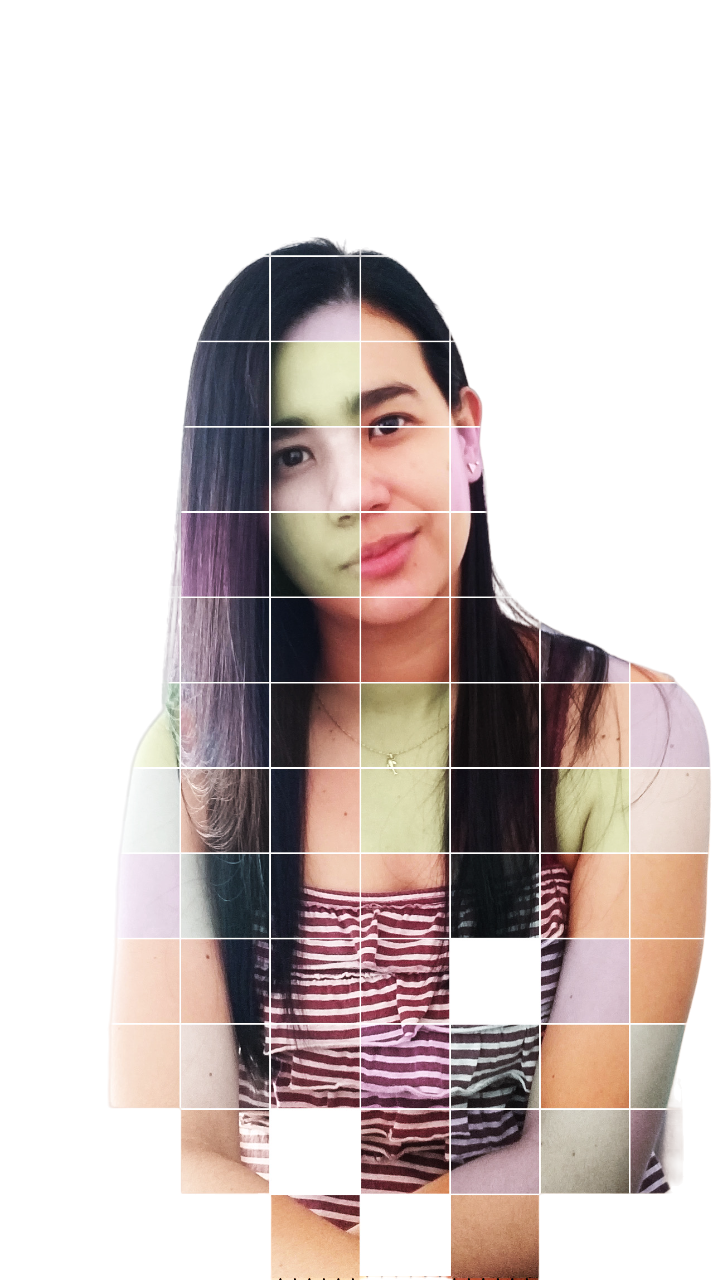
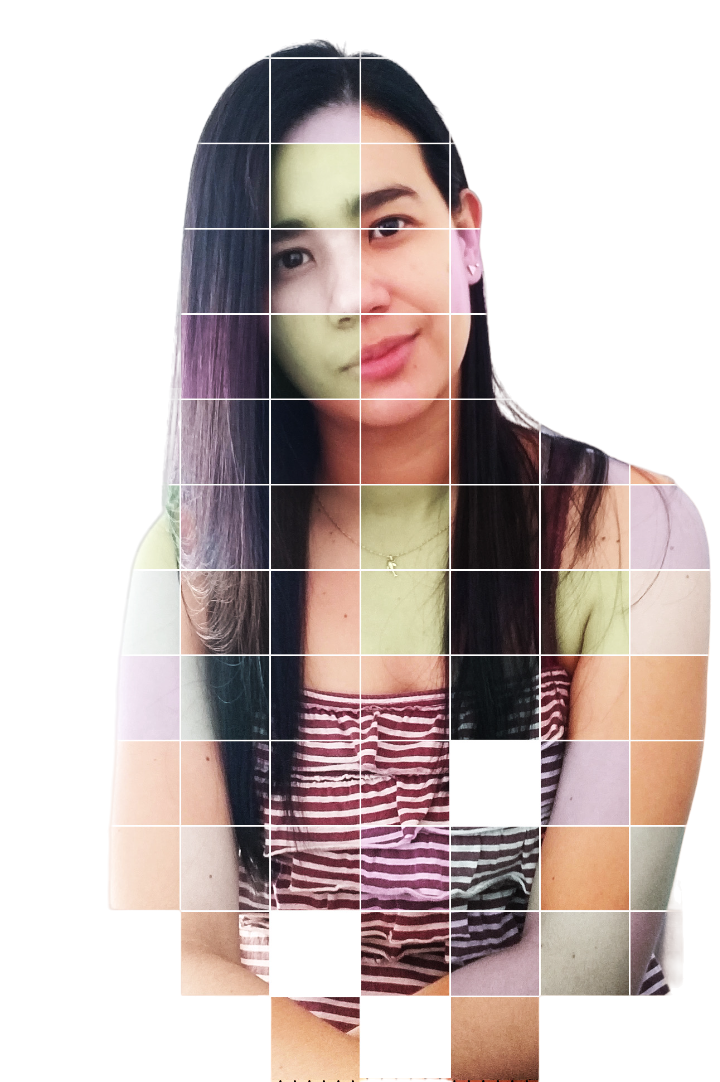
styles

diff --git a/pages/about.js b/pages/about.js
@@ -41,7 +41,8 @@ export default function About() {
         className="about__about-navbar">
         <Tab
           eventKey="education"
-          title="Education">
+          title="Education"
+          className="about__about-title">
           <div
             className="about__education"
             id="education-tab"
@@ -50,43 +51,55 @@ export default function About() {
               <li className="about__education-list">
                 <div className="about__education-content">
                   <span className="about__education-year">2023</span>
-                  <h3 className="about__education-title">
+                  <h4 className="about__education-title">
                     The Coding Interview Bootcamp: Algorithms + Data Structures
-                  </h3>
+                  </h4>
                   <span className="about__institute-name">Udemy</span>
                 </div>
+              </li>
+              <li className="about__education-list">
                 <div className="about__education-content">
                   <span className="about__education-year">2023</span>
-                  <h3 className="about__education-title">
+                  <h4 className="about__education-title">
                     Technical Test: Frontend Development with JavaScript
-                  </h3>
+                  </h4>
                   <span className="about__institute-name">Platzi</span>
                 </div>
+              </li>
+              <li className="about__education-list">
                 <div className="about__education-content">
                   <span className="about__education-year">2023</span>
-                  <h3 className="about__education-title">Modern React with Redux</h3>
+                  <h4 className="about__education-title">Modern React with Redux</h4>
                   <span className="about__institute-name">Udemy</span>
                 </div>
+              </li>
+              <li className="about__education-list">
                 <div className="about__education-content">
                   <span className="about__education-year">2022</span>
-                  <h3 className="about__education-title">
+                  <h4 className="about__education-title">
                     Bachelor&apos;s Degree in Industrial Engineering
-                  </h3>
+                  </h4>
                   <span className="about__institute-name">University of Antioquia</span>
                 </div>
+              </li>
+              <li className="about__education-list">
                 <div className="about__education-content">
                   <span className="about__education-year">2022</span>
-                  <h3 className="about__education-title">Practical JavaScript Course</h3>
+                  <h4 className="about__education-title">Practical JavaScript Course</h4>
                   <span className="about__institute-name">Platzi</span>
                 </div>
+              </li>
+              <li className="about__education-list">
                 <div className="about__education-content">
                   <span className="about__education-year">2022</span>
-                  <h3 className="about__education-title">The Modern Javascript Bootcamp Course</h3>
+                  <h4 className="about__education-title">The Modern Javascript Bootcamp Course</h4>
                   <span className="about__institute-name">Udemy</span>
                 </div>
+              </li>
+              <li className="about__education-list">
                 <div className="about__education-content">
                   <span className="about__education-year">2020</span>
-                  <h3 className="about__education-title">Diploma HSEQ</h3>
+                  <h4 className="about__education-title">Diploma HSEQ</h4>
                   <span className="about__institute-name">University of Antioquia</span>
                 </div>
               </li>
@@ -104,7 +117,7 @@ export default function About() {
               <li className="about__experience-list">
                 <div className="about__experience-content">
                   <span className="about__experience-year">2023</span>
-                  <h3 className="about__experience-title">Web UI Developer</h3>
+                  <h4 className="about__experience-title">Web UI Developer</h4>
                   <span className="about__experience-institute-name">@App Tiempo</span>
                   <p>
                     Contributed to the development and maintenance of responsive web applications
@@ -119,7 +132,7 @@ export default function About() {
               <li className="about__experience-list">
                 <div className="about__experience-content">
                   <span className="about__experience-year">2015 - 2022</span>
-                  <h3 className="about__experience-title">Administrative roles</h3>
+                  <h4 className="about__experience-title">Administrative roles</h4>
                   <span className="about__experience-institute-name">@App Tiempo</span>
                   <p>
                     Supported the implementation of the QualityManagement System (QMS) according to
@@ -145,7 +158,7 @@ export default function About() {
               <li className="about__projects-list">
                 <div className="about__projects-content">
                   <span className="about__projects-year">2023</span>
-                  <h3 className="about__projects-title">@App Tiempo</h3>
+                  <h4 className="about__projects-title">@App Tiempo</h4>
                   <Image
                     src="/images/appTiempo.jpg"
                     className="about__appTiempo-image"
@@ -155,9 +168,11 @@ export default function About() {
                   />
                   <p className="about__appTiempo-description">Description @AppTiempo.</p>
                 </div>
+              </li>
+              <li className="about__projects-list">
                 <div className="about__projects-content">
                   <span className="about__projects-year">2023</span>
-                  <h3 className="about__projects-title">Memorym game</h3>
+                  <h4 className="about__projects-title">Memorym game</h4>
                   <Image
                     src="/images/memorym.jpg"
                     className="about__appTiempo-image"

diff --git a/components/Hero.js b/components/Hero.js
@@ -27,8 +27,8 @@ export default function Hero() {
           <Image
             className="hero__image"
             src="/images/me.png"
-            width={300}
-            height={500}
+            width={400}
+            height={600}
             alt="Me"
           />
         </div>

diff --git a/pages/blog/index.js b/pages/blog/index.js
@@ -14,8 +14,8 @@ export default function BlogIndex() {
       <div className="index__blog-image">
         <Image
           src={javascriptIcon}
-          width={150}
-          height={150}
+          width={450}
+          height={450}
           alt="js icon"
         />
       </div>

diff --git a/pages/about.css b/pages/about.css
@@ -1,3 +1,12 @@
 .about__content {
-    color:aquamarine;
+    color:#fff
 }
+
+.about__title {
+    padding: 30px;
+}
+
+/* .about__about-title {
+    color: #fff;
+    font-size: 20px;
+} */

diff --git a/components/hero.css b/components/hero.css
@@ -1,3 +1,10 @@
 .hero__wrapper {
-    color:blueviolet;
+    color: #fff;
+}
+
+.hero__content {
+  align-items: center;
+  display: flex;
+  justify-content: center;
+  margin: auto;
 }

diff --git a/components/skillsHome.css b/components/skillsHome.css
@@ -1,3 +1,8 @@
 .skillsHome__container {
-    color:blueviolet;
+    color:#fff;
+}
+
+.skillsHome__col-12 {
+  display: flex;
+  justify-content: center;
 }

diff --git a/pages/blog/index.css b/pages/blog/index.css
@@ -1,3 +1,4 @@
 .index__blog-container {
-    color: #d51515
+    color: #fff
 }
+

diff --git a/components/footer.css b/components/footer.css
@@ -1,3 +1,3 @@
 .footer__wrapper {
-    color:aquamarine;
+    color: #fff
 }
